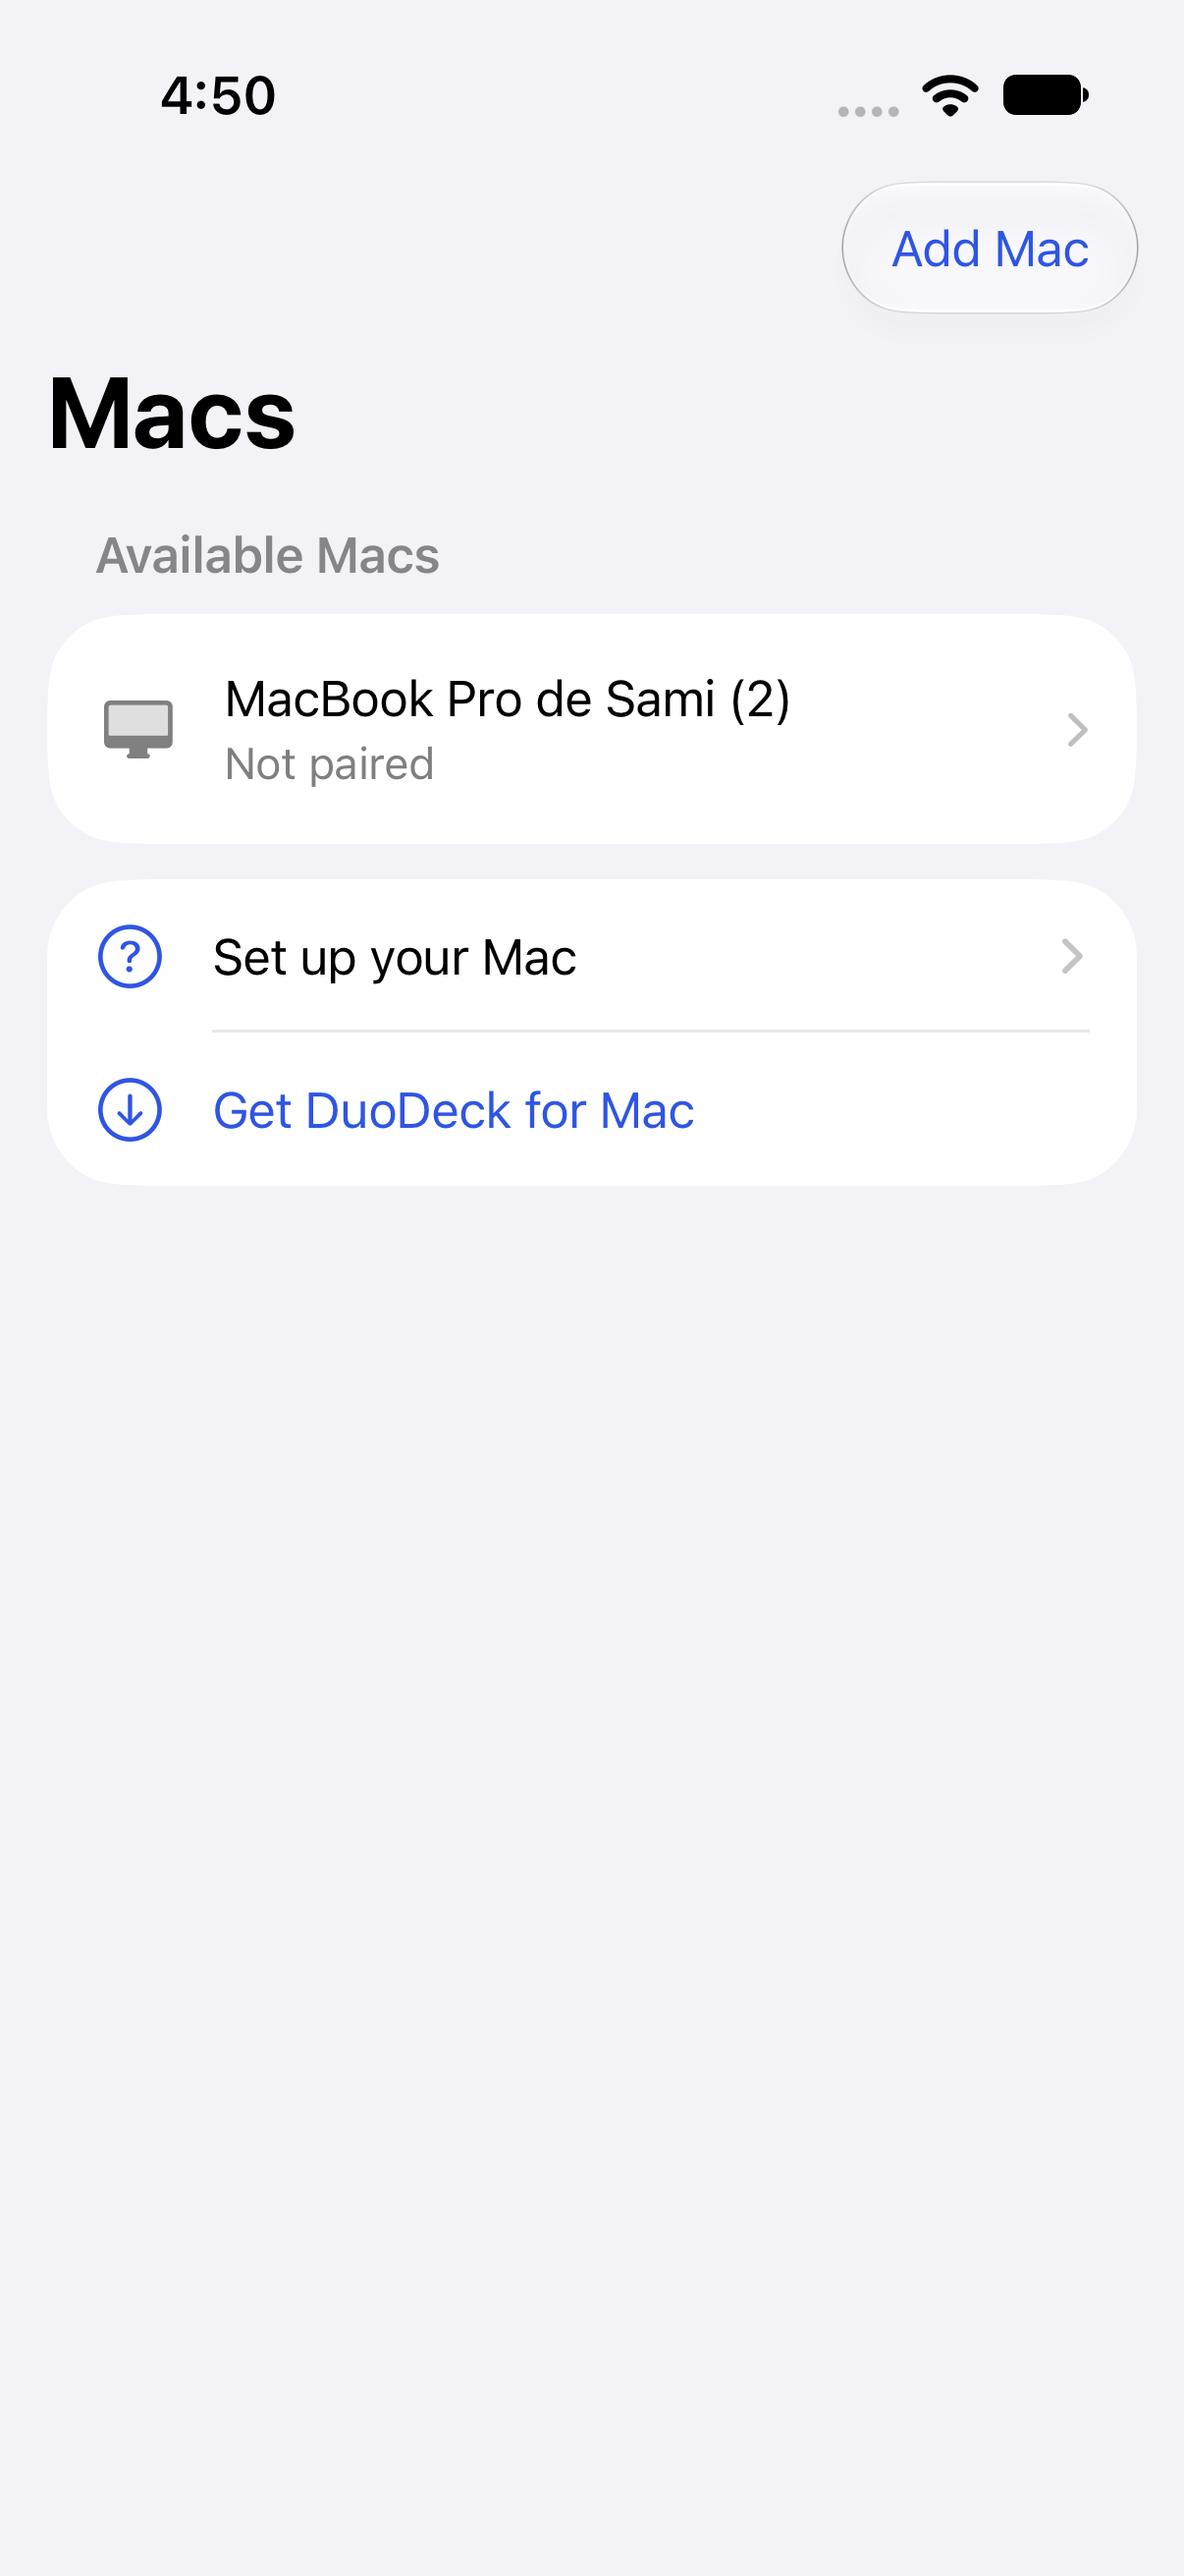
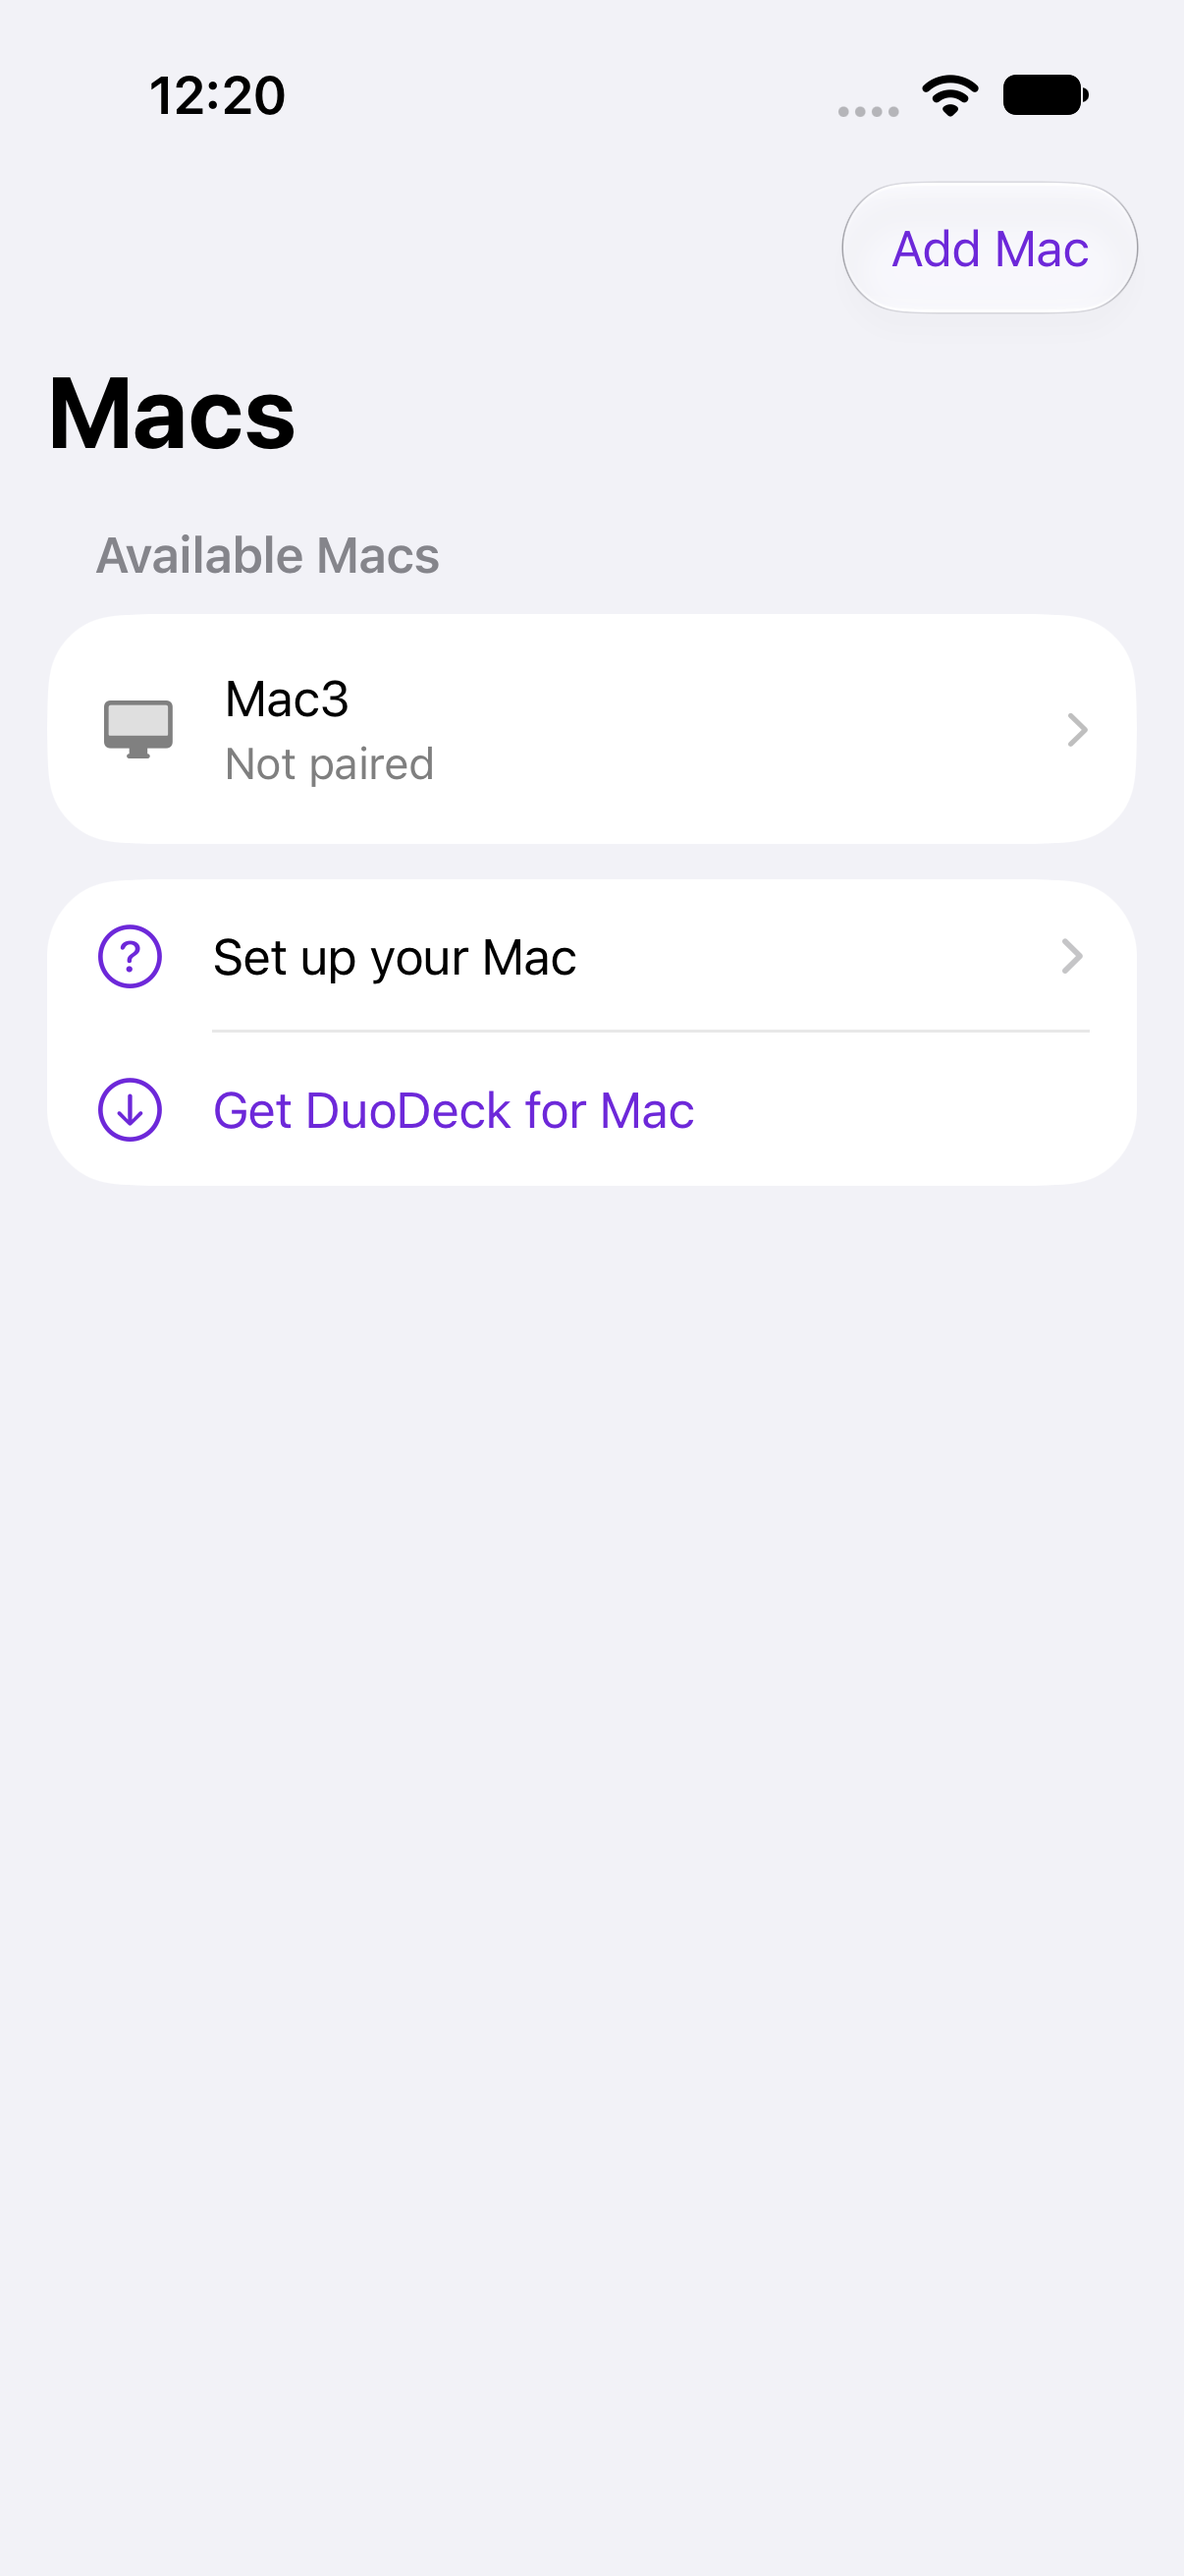
Record the rebranded iOS submission, Host 1.1.1 and new store screenshots

diff --git a/store/screenshots/ios/en-US/README.md b/store/screenshots/ios/en-US/README.md
@@ -1,6 +1,6 @@
 # Authentic iOS store screenshots — en-US
 
-Captured on Mac4 on 2026-11-09 at 15:50:28–15:50:38 UTC from DuoDeck 1.1.0 (2026110903), bundle `com.agentsai.duodeck`. The UTC time is derived from the Unix timestamps in `capture-provenance.json`. These replace the earlier teal build 2026110902 captures.
+Captured on Mac4 on 2026-11-10 at about 11:20 UTC from DuoDeck 1.1.0 (2026111001), the build with the seated-Duo icon and violet accent, bundle `com.agentsai.duodeck`. The UTC time is derived from the Unix timestamps in `capture-provenance.json`. These replace the blue-accent build 2026110903 captures.
 
 ## Images
 
@@ -13,7 +13,7 @@ Captured on Mac4 on 2026-11-09 at 15:50:28–15:50:38 UTC from DuoDeck 1.1.0 (20
 | ipad-13-add-mac.png | 2064 × 2752 | Native Add Mac form sheet, empty manual pairing fields |
 | ipad-13-setup.png | 2064 × 2752 | Set up your Mac help at readable iPad width |
 
-All six canonical PNGs were individually inspected after capture. They show the final system typography, semantic surfaces and blue accent, with clear Add Mac text and no repeated promotional mark or slogan.
+All six canonical PNGs were individually inspected after capture. They show the final system typography, semantic surfaces and violet accent, with clear Add Mac text and no repeated promotional mark or slogan.
 
 ## Capture provenance
 
@@ -22,13 +22,13 @@ The two dedicated store simulators were reused:
 - DuoDeck Store iPhone 6.3: iPhone 17 Pro, iOS 27.0; F7317CDD-90DC-4B9A-AAD4-057E6D1F0A6F.
 - DuoDeck Store iPad 13: iPad Pro 13-inch (M5), iOS 27.0; C0033497-0517-44CE-98DF-0393C03859E4.
 
-The compiled app at `.build/ios-native-ui/Build/Products/Debug-iphonesimulator/Sill.app` was installed on each. Its Info.plist was checked as version 1.1.0, build 2026110903. The simulator build succeeded; evidence is in `.build/orchestration/ios-native-v2-final-build.log`.
+The compiled app at `.build/ios-native-ui/Build/Products/Debug-iphonesimulator/Sill.app` was installed on each. Its Info.plist was checked as version 1.1.0, build 2026111001 (compiled at `.build/ios-icon-check/Build/Products/Debug-iphonesimulator/Sill.app` for this capture). The simulator build succeeded; evidence is in `.build/orchestration/ios-native-v2-final-build.log`.
 
 Both used a normal `XCUIApplication(bundleIdentifier: "com.agentsai.duodeck")` launch with no app arguments. XCTest navigated the actual app through Macs → Add Mac → Cancel → Set up your Mac. Images were captured as native XCTest screenshots and copied byte-for-byte from the result attachments. The isolated test runner lives only under the ignored `.build/orchestration/ios-native-v2-ui` directory; the shipped Xcode project has no added UI-test target.
 
 Both simulators used light appearance and the standard Large content-size category. No layout harness, mock catalog, mock pairing, saved fake Mac, fake video frame, debug UI launch argument, or status bar override was used. The PNGs have not been resized, cropped, retouched, composited or generated.
 
-The Macs list shows the genuinely discovered “MacBook Pro de Sami (2)” as Not paired. No connection to, pairing with, or operation of this Mac was performed. The simulator has no camera, so Add Mac legitimately shows the manual address/code path rather than the camera scanner.
+The Macs list shows the genuinely discovered “Mac3” as Not paired. No connection to, pairing with, or operation of this Mac was performed. The simulator has no camera, so Add Mac legitimately shows the manual address/code path rather than the camera scanner.
 
 The normal-flow tests also checked 12-digit code formatting after the blank-field screenshot, then cancelled without pressing Pair Mac. Those test values were never sent to a host and are not in any store screenshot.
 
@@ -38,25 +38,25 @@ The normal-flow tests also checked 12-digit code formatting after the blank-fiel
 
 | File | Bytes | SHA-256 |
 | --- | ---: | --- |
-| iphone-6_3-connect.png | 133711 | 67feaf1de0940950f68752df2cdd101b67c263d807c9ec46c8e907f2026479f3 |
-| iphone-6_3-add-mac.png | 148596 | 41d893771902a56d88302d278164b83352f392e53c6e1b2af4ab1ce303712a13 |
-| iphone-6_3-setup.png | 221941 | 999b81bb05af0b571dd6303be666426e8bcb6c0aea90cfd787fc85496b82b57a |
-| ipad-13-connect.png | 149672 | d073a0a880ab16ffaac6583023468295ce92d1293a4a42a2f89c70c63698a436 |
-| ipad-13-add-mac.png | 261914 | 5b92b45944a77c6d5143e0da027a55b42015808cf16318fb91141479f7561fcc |
-| ipad-13-setup.png | 207519 | dbb9901c901a019f16935748dbcf3505222677a12f9ee8fe32d6826e332560d6 |
+| iphone-6_3-connect.png | 127644 | e06b8ea76f49b6939c8abcb235b28495cdbcdf5296f6a1214447ef546a93004c |
+| iphone-6_3-add-mac.png | 147957 | fe5776c8c3ebaf25e23fd78c04bc6ba8e17018d285b57aa8e20612a64a209757 |
+| iphone-6_3-setup.png | 221671 | ecd9a67df00d1b9c040807b9942bc3023cc20f33c4f86797c64207cd18cfa595 |
+| ipad-13-connect.png | 144486 | 3c46fe038f4172b63ed41dd992fe09ca3cf70fff6d323ecade91ad86f7de6340 |
+| ipad-13-add-mac.png | 257145 | 4174e510c055d9c22a06db6ab9d279607e008b70487f16fcb19a1fd4702b5464 |
+| ipad-13-setup.png | 207285 | 29ddee91104f9139313b59683f2017c5c208abbee71d055938b3ac1837c6c9f3 |
 
 Normal-flow result bundles:
 
-- `.build/orchestration/ios-native-v2-ui/phone-store-final.xcresult` — 1 test, 0 failures.
-- `.build/orchestration/ios-native-v2-ui/ipad-store-final.xcresult` — 1 test, 0 failures.
+- `.build/orchestration/ios-native-v2-ui/phone-violet.xcresult` — 1 test, 0 failures.
+- `.build/orchestration/ios-native-v2-ui/ipad-violet.xcresult` — 1 test, 0 failures.
 
[2 lines of base64/hex data omitted]
 
 ## Scope and limitations
 
 These are authentic discovery, pairing-entry and setup screens. They do not demonstrate a connected streaming session. Separate connected-layout QA images use the repository's existing DEBUG fixture and remain under `.build`; none are store assets.
 
-The depicted Macs, Add Mac and setup-help screens are unchanged in build 2026110904, so these images remain appropriate for its listing. Their original build03 provenance, timestamps and hashes are retained; they are not images recaptured from build 2026110904. The six modern App Asset Library placements were repaired and ordered as these three scenes per family, and Apple-hosted full-size image pixels were verified against these source PNGs.
+These images were captured from build 2026111001 itself, the build they accompany.
 
 The release coordinator corrected the camera permission purpose string after these captures. No screenshot contains a camera prompt; that string-only correction does not change the depicted screens. The final archive is rebuilt separately by the release coordinator.
 

diff --git a/docs/duodeck-app-store-release.md b/docs/duodeck-app-store-release.md
@@ -4,24 +4,17 @@
 
 App ID **6832548998**, bundle **com.agentsai.duodeck**, team **U549N38BV6**, SKU **DUODECK2026IOS001**. The record was created and independently read back on 9 November 2026 under Agents AI Ltd.
 
-## Release status — 10 November 2026
+## Release status — 10 November 2026 (seated-Duo rebrand)
 
-Version **1.1.0** now includes the regular Mac Dock application and capture/first-picture recovery fixes. The states below distinguish local verification, Apple processing and public availability.
+The new seated-Duo icon and violet accent replaced the paired-D icon on blue in both apps. The iOS build that was waiting for review was withdrawn and replaced with the rebranded build before review began.
 
 | Component | Candidate | Verified state |
 | --- | --- | --- |
-| iOS | 1.1.0 (2026110904) | Signed archive and export passed. The valid build is selected on the submitted version |
-| Mac companion | 1.1.0 (2026110903) | Public [GitHub release](https://github.com/samihalawa/2026-CODEX-DuoDeck/releases/tag/v1.1.0) with notarized universal DMG, ZIP and checksums |
-| App Store listing | [Listing material](duodeck-app-store.md) | App Store Connect saved the name **DuoDeck: Mac Remote Control**, subtitle, keywords and promotional text on 10 November |
-| Store screenshots | Six captures from build 2026110903 | Ordered and verified Macs, Add Mac and setup scenes also used for build 2026110904 |
-| App Review | 7d3098a7-0a91-49c0-afef-d867f8545bbd | Submitted at `2026-11-10T08:20:37.384Z`. App Store Connect shows Waiting for Review on the submission and the version |
-| Website | [Downloads](https://duodeck.megawebs.com/#downloads) | The Mac button is enabled. The public DMG returned HTTP 200 and matched the published checksum |
-
[1 lines of base64/hex data omitted]
-
[1 lines of base64/hex data omitted]
-
-The six store images remain genuine build03 captures from **15:50 UTC**. Their unchanged setup scenes are appropriate for build 2026110904; they are not recaptured from build 2026110904 or evidence of live streaming. Native placement readback verified three ordered ACTIVE placements in each of `IPAD_13_PROFILE` and `IPHONE_DYNAMIC_ISLAND_MEDIUM_PROFILE`. Apple-hosted full-size image pixels match the source PNGs.
+| iOS | 1.1.0 (2026111001), build ID `4208a23a-193f-4e53-871c-2a405300f4df` | Uploaded through the Q92YCL7C6D API key, processed by Apple and selected on version `13d239d5-2eb9-4767-a9bd-f33780f4db97` |
[1 lines of base64/hex data omitted]
+| Store screenshots | Six captures from build 2026111001 | Replaced in `IPAD_PRO_3GEN_129` and `IPHONE_61`, three each, in the same order |
+| App Review | `efcd0eb4-1f69-4910-b13b-f09cdf1703fd` | Submitted; App Store Connect shows Waiting for Review on the submission and the version. The earlier submission `7d3098a7-0a91-49c0-afef-d867f8545bbd` (build 2026110904) was cancelled before review |
+| Website | [duodeck.megawebs.com](https://duodeck.megawebs.com) | Serves the new mark and violet accent; the Mac download reports available |
 
 ## After App Review
 

diff --git a/docs/duodeck-app-store.md b/docs/duodeck-app-store.md
@@ -63,7 +63,7 @@ trackpad,touchpad,screen,streaming,sharing,wireless,shortcuts,window,cursor,wifi
 ```text
 A clearer way to connect and control your Mac.
 
-• New paired-D app icon and simpler native screens.
+• A new app icon and simpler native screens.
 • A Macs list with an Add Mac sheet for scanning or entering a pairing code.
 • More room for the trackpad, with Keyboard and Shortcuts close by.
 • Saved trackpad size and pointer speed, plus an optional shortcut row.
